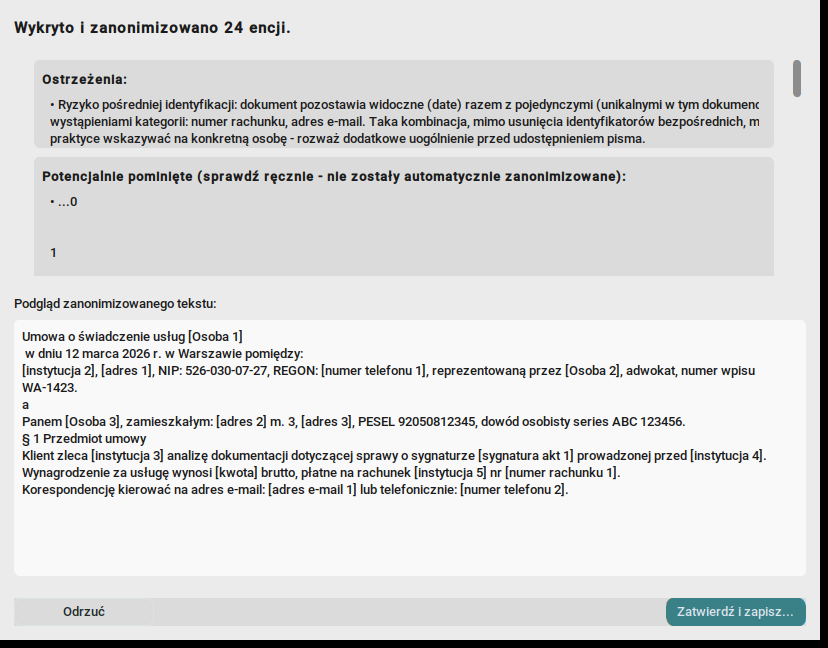
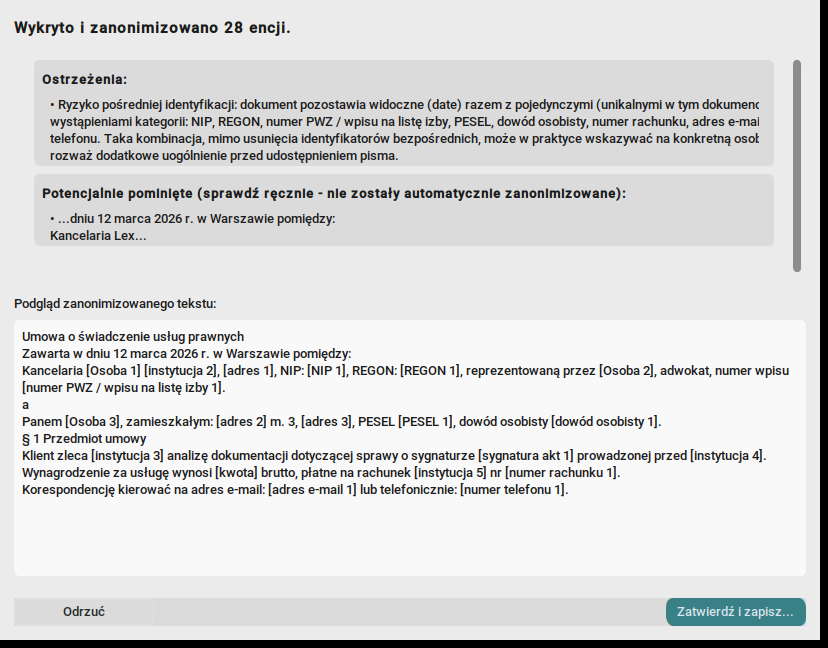
fix(detekcja): 5 napraw jakości detekcji + demo z walidnymi danymi
Znalezione po pytaniu o screenshot README (PESEL/dowód widoczne na zrzucie):
przyczyną był dokument demo z liczbami o błędnych sumach kontrolnych, które
walidacja celowo odrzuca - plus 4 realne bugi, które demo wytrąciło:

1. load_part_text: separator newline między blokami (w:p/w:tc/w:tr) w częściach
   przepływowych - koniec jednego akapitu nie skleja się z początkiem
   następnego w fałszywy token (było: prawnych+Zawarta -> fałszywa osoba).
2. phone: gołe 9 cyfr to telefon tylko z prefiksem komórkowym 5-8;
   trafienie po słowie-kluczu identyfikatora (REGON/NIP/PESEL...) nie jest
   telefonem (było: odrzucony REGON -> fałszywy numer telefonu).
3. npwz: nowy wzorzec numer wpisu WA-1423 - numery wpisów na listy izb
   zawodowych są publicznie wyszukiwalne i realnie identyfikują osobę.
4. missed-panel: początki akapitów po separatorze bloków przestają zalewać
   listę potencjalnie pominięte (martwy kod w _is_sentence_start);
   docProps skanowane bez kolektorów (Title / Microsoft Macintosh Word).
5. Screenshot review-window podmieniony - dokument demo z walidnymi
   checksumami, w pełni anonimizowany (PESEL, dowód, REGON, NIP, NRB,
   numer wpisu, e-mail, telefon).

282/282 testów przechodzi.

diff --git a/app/pipeline/docx_writer.py b/app/pipeline/docx_writer.py
@@ -53,6 +53,18 @@ _TECHNICAL_ATTR_LOCALNAMES = frozenset(
 # wartości (np. rewizja "1" + data ISO doklejona wprost do kolejnej daty ISO
 # złożyły się w ciąg cyfr wyglądający jak numer telefonu - realny błąd
 # znaleziony testem e2e). Dlatego te części łączymy z separatorem.
+#
+# ULICA vs AKAPIT/TABELA w części przepływowej: złączenie bez separatora jest
+# potrzebne TYLKO między węzłami wewnątrz jednego akapitu (rozbity PESEL na
+# dwa runy). Ale kolejne AKAPITY (w:p) i komórki tabel (w:tc) to logicznie
+# osobne bloki tekstu — sklejenie ich bez separatora zlewa ostatnie słowo
+# jednego akapitu z pierwszym następnego w jeden token CamelCase, który NER
+# potrafi fałszywie uznać za nazwisko (realny błąd na dokumencie demo:
+# "usług prawnych" + "Zawarta" -> "prawnychZawarta" -> [Osoba 1]). Dlatego
+# między blokami strukturalne wstawiamy separator "\n" (jak w częściach
+# nieprzepływowych), a bez separatora łączymy tylko węzły w obrębie tego
+# samego bloku. Separator żyje TYLKO w part.text do detekcji — nigdy nie
+# trafia do wynikowego dokumentu (apply_replacements operuje na węzłach).
 _FLOW_CONTENT_PART_PREFIXES = (
     "word/document.xml",
     "word/header",
@@ -60,6 +72,16 @@ _FLOW_CONTENT_PART_PREFIXES = (
     "word/footnotes.xml",
     "word/endnotes.xml",
     "word/comments.xml",
+)
+
+# Elementy XML, które KOŃCZĄ blok tekstu (akapit/komórka) w części
+# przepływowej - po nich wstawiamy separator między blokami.
+_FLOW_BLOCK_BOUNDARY_TAGS = frozenset(
+    {
+        f"{{{W_NS}}}p",   # akapit (w:p)
+        f"{{{W_NS}}}tc",  # komórka tabeli (w:tc)
+        f"{{{W_NS}}}tr",  # wiersz tabeli (w:tr)
+    }
 )
 
 
@@ -101,35 +123,60 @@ def _iter_text_locations(elem: etree._Element) -> Iterable[tuple[etree._Element,
             yield (child, "tail")
 
 
+def _block_ancestor(elem: etree._Element) -> etree._Element | None:
+    """Najbliższy przodek będący granicą bloku tekstu (w:p/w:tc/w:tr) —
+    None gdy węzeł nie leży w żadnym bloku (patrz `_FLOW_BLOCK_BOUNDARY_TAGS`)."""
+    for anc in elem.iterancestors():
+        if anc.tag in _FLOW_BLOCK_BOUNDARY_TAGS:
+            return anc
+    return None
+
+
 def load_part_text(part_name: str, xml_bytes: bytes) -> PartText:
     """Parsuje jedną część XML i buduje złączony tekst z mapą offsetów.
 
-    W częściach "przepływowych" (patrz `_FLOW_CONTENT_PART_PREFIXES`) fragmenty
-    są łączone bez separatora, żeby wartość rozbita na sąsiednie węzły (różne
-    formatowanie w jednym akapicie) dalej tworzyła jeden ciągły tekst do
-    detekcji. W pozostałych częściach (metadane, style, .rels...) wstawiamy
-    separator między fragmentami, żeby dwie niepowiązane wartości nigdy się
+    W częściach "przepływowych" (patrz `_FLOW_CONTENT_PART_PREFIXES`) węzły
+    W RAMIENI JEDNEGO AKAPITU/komórki łączone są bez separatora, żeby wartość
+    rozbita na sąsiednie węzły (różne formatowanie w jednym akapicie) dalej
+    tworzyła jeden ciągły tekst do detekcji. Ale między kolejnymi blokami
+    (akapity w:p, komórki tabel w:tc, wiersze w:tr) wstawiany jest separator
+    "\\n" — ostatnie słowo jednego akapitu i pierwsze słowo następnego nigdy
+    nie mogą się skleić w jeden token (realny błąd NER: "prawnych" + "Zawarta"
+    -> "prawnychZawarta" -> fałszywa [Osoba 1]).
+
+    W pozostałych częściach (metadane, style, .rels...) wstawiamy separator
+    między WSZYSTKIMI fragmentami, żeby dwie niepowiązane wartości nigdy się
     przypadkowo nie skleiły w fałszywe dopasowanie."""
     parser = etree.XMLParser(remove_blank_text=False)
     tree = etree.fromstring(xml_bytes, parser=parser).getroottree()
     root = tree.getroot()
     flow = _is_flow_content_part(part_name)
-    separator = "" if flow else "\n"
 
     nodes: list[TextNode] = []
-    pieces: list[str] = []
+    text_pieces: list[str] = []
     offset = 0
+    prev_block: etree._Element | None = None
     for elem, attr in _iter_text_locations(root):
         content = getattr(elem, attr) or ""
         if content == "":
             continue
-        if pieces:
-            offset += len(separator)
+        block = _block_ancestor(elem)
+        if text_pieces:
+            if not flow:
+                sep = "\n"
+            else:
+                # W części przepływowej: bez separatora tylko między węzłami
+                # wewnątrz TEJ SAMEGO bloku (rozbite runy jednego akapitu).
+                # Nieznany blok (None) też rozdziela — bezpieczniej.
+                sep = "" if (block is not None and block is prev_block) else "\n"
+            text_pieces.append(sep)
+            offset += len(sep)
+        prev_block = block
         nodes.append(TextNode(element=elem, start=offset, end=offset + len(content), attr=attr))
-        pieces.append(content)
+        text_pieces.append(content)
         offset += len(content)
 
-    return PartText(part_name=part_name, tree=tree, text=separator.join(pieces), nodes=nodes)
+    return PartText(part_name=part_name, tree=tree, text="".join(text_pieces), nodes=nodes)
 
 
 def apply_replacements(part: PartText, spans: list[tuple[int, int, str]]) -> bool:
@@ -234,6 +281,17 @@ def apply_attribute_replacements(
     (ta sama zamknięta funkcja `detect_fn`), więc numeracja etykiet
     pozostaje spójna z resztą dokumentu.
 
+    UWAGA na `attribute_detect_fn` vs `detect_fn` w `process_docx`: wartości
+    atrybutów to prawie wyłącznie identyfikatory techniczne XML (nazwy flag
+    ustawień typu `bestFit`, maski bitowe, wartości `docProps/app.xml` typu
+    `Microsoft Macintosh Word`). Nie podajemy tu funkcji z podpiętymi
+    kolektorami "potencjalnie pominięte"/"niepewne trafienia" ani z
+    `sample_texts` — te pochodzą wyłącznie z realnej treści dokumentu.
+    Podpięcie kolektorów pod atrybuty zalewało ekran weryfikacji fałszywymi
+    "pominiętymi" fragmentami czysto technicznych nazw (realny błąd na
+    dokumencie demo: `Title`, `bestFit`, `doNotCompress` w panelu
+    "potencjalnie pominięte").
+
     Uwaga bezpieczeństwa: w plikach `.rels` atrybut `Target` bywa
     WEWNĘTRZNĄ ścieżką do innej części pakietu (np. `docProps/thumbnail.jpeg`,
     `media/image1.png`) — musi zostać dosłownie nietknięty, inaczej podmiana
@@ -293,6 +351,8 @@ def process_docx(
     input_path: str | Path,
     output_path: str | Path,
     detect_fn: Callable[[str], list[tuple[int, int, str]]],
+    attribute_detect_fn: Callable[[str], list[tuple[int, int, str]]] | None = None,
+    metadata_detect_fn: Callable[[str], list[tuple[int, int, str]]] | None = None,
 ) -> list[str]:
     """Wczytuje .docx, uruchamia `detect_fn` na tekście każdej istotnej części
     pakietu, nakłada podmiany i zapisuje wynikowy plik, zachowując resztę
@@ -300,6 +360,20 @@ def process_docx(
 
     `detect_fn` przyjmuje złączony tekst części i zwraca listę
     (start, end, etykieta) do podmiany.
+
+    `attribute_detect_fn` (opcjonalny): funkcja użyta do skanowania WARTOŚCI
+    atrybutów XML zamiast `detect_fn` — podłącz pod niej wariant BEZ
+    kolektorów "potencjalnie pominięte"/"niepewne"/`sample_texts` (patrz
+    docstring `apply_attribute_replacements` po uzasadnienie). `None` = użyj
+    `detect_fn` (zachowanie historyczne, dla wywołań bez rozróżnienia).
+
+    `metadata_detect_fn` (opcjonalny): funkcja użyta do skanowania TEKSTU
+    części metadanych `docProps/*` zamiast `detect_fn` — ten sam wzorzec
+    co atrybuty: pełna detekcja i podmiany (dc:creator potrafi nieść
+    nazwisko autora pisma!), ale bez kolektorów. Techniczne wartości
+    metadanych (`Microsoft Macintosh Word`, `Normal.dotm`, puste `Title`)
+    to nie "treść dokumentu" — ich fragmenty NIE mogą zalewać panelu
+    "potencjalnie pominięte". `None` = użyj `detect_fn`.
 
     Zwraca listę nazw części, w których faktycznie coś podmieniono
     (do celów logowania bez treści — patrz higiena logów w planie).
@@ -327,11 +401,13 @@ def process_docx(
 
         part_changed = False
         if part.text:
-            spans = detect_fn(part.text)
+            text_fn = metadata_detect_fn if (name.startswith("docProps/") and metadata_detect_fn is not None) else detect_fn
+            spans = text_fn(part.text)
             if apply_replacements(part, spans):
                 part_changed = True
 
-        if apply_attribute_replacements(name, part.tree.getroot(), detect_fn):
+        attr_fn = attribute_detect_fn if attribute_detect_fn is not None else detect_fn
+        if apply_attribute_replacements(name, part.tree.getroot(), attr_fn):
             part_changed = True
 
         if part_changed:

diff --git a/app/main.py b/app/main.py
@@ -142,16 +142,18 @@ def _detect_fn_for(
     uncertain_detections: list[str] | None = None,
     gliner_model=None,
     gliner_threshold: float = 0.5,
+    collect_missed: bool = True,
+    collect_samples: bool = True,
 ) -> Callable[[str], list[tuple[int, int, str]]]:
     def _detect_fn(text: str) -> list[tuple[int, int, str]]:
-        if sample_texts is not None and text:
+        if collect_samples and sample_texts is not None and text:
             sample_texts.append(text)
         replacements: list[Replacement] = detect_in_text(
             text,
             registry,
             nlp=nlp,
-            potentially_missed_collector=potentially_missed,
-            uncertain_collector=uncertain_detections,
+            potentially_missed_collector=potentially_missed if collect_missed else None,
+            uncertain_collector=uncertain_detections if collect_missed else None,
             gliner_model=gliner_model,
             gliner_threshold=gliner_threshold,
         )
@@ -232,18 +234,52 @@ def process_to_staging(
         gliner_model=gliner_model,
         gliner_threshold=config.gliner.confidence_threshold,
     )
+    # Wariant "cichy" do skanowania WARTOŚCI atrybutów XML w .docx (patrz
+    # `docx_writer.apply_attribute_replacements`): te same detektory i ten
+    # sam rejestr tożsamości (spójna numeracja etykiet), ale BEZ kolektorów
+    # "potencjalnie pominięte"/"niepewne" i bez `sample_texts` — wartości
+    # atrybutów to niemal wyłącznie identyfikatory techniczne XML (bestFit,
+    # doNotCompress, Microsoft Macintosh Word...), a ich karmienie
+    # kolektorami zalewało ekran weryfikacji fałszywymi "pominiętymi"
+    # (realny błąd na dokumencie demo, 26.11.2026).
+    attribute_detect_fn = _detect_fn_for(
+        registry,
+        options.nlp,
+        sample_texts=None,
+        potentially_missed=None,
+        uncertain_detections=None,
+        gliner_model=gliner_model,
+        gliner_threshold=config.gliner.confidence_threshold,
+        collect_missed=False,
+        collect_samples=False,
+    )
+    # docProps/* (metadane): pełna detekcja i podmiany (dc:creator potrafi
+    # nieść nazwisko autora!), ale bez kolektorów — techniczne wartości
+    # metadanych (Microsoft Macintosh Word, Normal.dotm, Title) nie są treścią
+    # dokumentu i nie mogą zalewać panelu "potencjalnie pominięte".
+    metadata_detect_fn = _detect_fn_for(
+        registry,
+        options.nlp,
+        sample_texts=None,
+        potentially_missed=None,
+        uncertain_detections=None,
+        gliner_model=gliner_model,
+        gliner_threshold=config.gliner.confidence_threshold,
+        collect_missed=False,
+        collect_samples=False,
+    )
 
     staging_dir = Path(tempfile.mkdtemp(prefix=STAGING_DIR_PREFIX))
     try:
         tmp_output = staging_dir / "wynik.docx"
 
         if detection.format == DocumentFormat.DOCX:
-            docx_writer.process_docx(input_path, tmp_output, detect_fn)
+            docx_writer.process_docx(input_path, tmp_output, detect_fn, attribute_detect_fn, metadata_detect_fn)
 
         elif detection.format == DocumentFormat.DOC:
             converted = staging_dir / "przekonwertowany.docx"
             legacy_convert.convert_doc_to_docx(input_path, converted)
-            docx_writer.process_docx(converted, tmp_output, detect_fn)
+            docx_writer.process_docx(converted, tmp_output, detect_fn, attribute_detect_fn, metadata_detect_fn)
 
         elif detection.format == DocumentFormat.ODT:
             odt_output = staging_dir / "wynik.odt"

diff --git a/app/detectors/phone.py b/app/detectors/phone.py
@@ -1,15 +1,58 @@
 """Polskie numery telefonów: komórkowe (3-3-3, +48/0048) i stacjonarne
 (kod strefowy 2 cyfry + 3-2-2), z granicami `\b`-podobnymi (lookaround),
 żeby nie łapać fragmentu dłuższego ciągu cyfr (np. PESEL/NIP/REGON).
+
+Dodatkowe zabezpieczenia przed fałszywymi trafieniami na identyfikatorach
+(realny przypadek z umowy demo: REGON o błędnej sumie kontrolnej — 9 cyfr —
+łapany jako "[numer telefonu]"):
+
+- goła forma bez separatorów (9 cyfr z rzędu) jest telefonem tylko, gdy
+  zaczyna się od realnego prefiksu komórkowego (5-8xx) — identyfikatory
+  mogą zaczynać się dowolną cyfrą;
+- forma stacjonarna musi mieć nawias wokół kierunkowego albo separator
+  zaraz po nim — "221234567" z rzędu to prawie nigdy nie telefon;
+- trafienie poprzedzone w promieniu kilku znaków słowem-kluczem
+  identyfikatora (REGON, KRS, NIP, PESEL, NPWZ, "numer wpisu") NIE jest
+  telefonem — bo identyfikator odrzucony przez checksum (np. literówka w
+  REGON) ma identyczny "telefoniczny" kształt 9 cyfr.
 """
 
 from __future__ import annotations
 
-from app.detectors.base import Detector
+import re
 
-_MOBILE = r"(?:(?:\+48|0048)[\s-]?)?\d{3}[\s-]\d{3}[\s-]\d{3}|(?:\+48|0048)\d{9}|\d{9}"
-_LANDLINE = r"\(?\d{2}\)?[\s-]?\d{3}[\s-]?\d{2}[\s-]?\d{2}"
+from app.detectors.base import Detector, Match
+
+# Formy z separatorami/prefixem pozostają bez ograniczeń prefiksu (układ
+# 3-3-3 / +48 sam w sobie jest mocno "telefoniczny"); forma goła tylko z
+# prefiksem komórkowym 5-8.
+_MOBILE = (
+    r"(?:(?:\+48|0048)[\s-]?)?\d{3}[\s-]\d{3}[\s-]\d{3}"
+    r"|(?:\+48|0048)\d{9}"
+    r"|[5-8]\d{8}"
+)
+# Stacjonarny: nawias wokół kierunkowego (opcjonalny separator po nim)
+# LUB kierunkowy z separatorem — forma w pełni zlepiona nie jest telefonem.
+_LANDLINE = r"(?:\(\d{2}\)[\s-]?|\d{2}[\s-])\d{3}[\s-]?\d{2}[\s-]?\d{2}"
 
 _PATTERN = rf"(?<!\d)(?:{_MOBILE}|{_LANDLINE})(?!\d)"
 
-detector = Detector(name="phone", pattern=_PATTERN)
+# Słowa-klucze oznaczające, że następująca liczba to identyfikator, nie telefon.
+_IDENTIFIER_CONTEXT = re.compile(
+    r"(?i)\b(?:regon|krs|nip|pesel|npwz|numer\s+wpisu)\W{0,6}$"
+)
+
+
+class PhoneDetector(Detector):
+    """Detektor telefonu z kontekstowym filtrem identyfikatorów (opis wyżej)."""
+
+    def find_all(self, text: str) -> list[Match]:
+        matches = super().find_all(text)
+        return [
+            m
+            for m in matches
+            if not _IDENTIFIER_CONTEXT.search(text, 0, m.start)
+        ]
+
+
+detector = PhoneDetector(name="phone", pattern=_PATTERN)

diff --git a/app/pipeline/detect_all.py b/app/pipeline/detect_all.py
@@ -88,17 +88,31 @@ _COMMON_CAPITALIZED_WORDS = frozenset(
         "rejonowy", "rejonowego", "rejonowym",
         "okręgowy", "okręgowego", "okręgowym",
         "apelacyjny", "apelacyjnego", "apelacyjnym",
+        # Typowe słowa z nagłówków paragrafów umów/pism (§ 1 Przedmiot umowy,
+        # § 2 Wynagrodzenie) — nie są danymi, a ich "wielka litera w środku
+        # bloku" to artefakt stylu nagłówka, nie sygnał pominiętej osoby.
+        "przedmiot", "przedmiotu", "przedmiotem",
+        "wynagrodzenie", "wynagrodzenia",
+        "postanowienia", "postanowień",
+        "załącznik", "załącznika", "załączniku",
+        "umowa", "umowy", "umowie", "umowę", "umową", "umowy.",
     }
 )
 
 
 def _is_sentence_start(text: str, pos: int) -> bool:
     i = pos - 1
-    while i >= 0 and text[i] in " \t\n\r":
+    # Zjadamy tylko POZIOME białe znaki (spacja/tab) — pionowe (\n, \r)
+    # zatrzymują skan, bo są same w sobie granicą bloku tekstu (akapit,
+    # komórka tabeli, osobna część XML). Wcześniejsza wersja zjadała też
+    # "\n\r" jako whitespace, więc warunek ".!?\n" poniżej nigdy nie widział
+    # newline — początek akapitu NIE był traktowany jako początek zdania i
+    # pierwsze słowa kolejnych bloków zalewały listę "potencjalnie pominięte".
+    while i >= 0 and text[i] in " \t":
         i -= 1
     if i < 0:
         return True
-    return text[i] in ".!?\n"
+    return text[i] in ".!?\n\r"
 
 
 def find_potentially_missed(text: str, resolved: list[Detection]) -> list[str]:

diff --git a/app/detectors/npwz.py b/app/detectors/npwz.py
@@ -3,6 +3,12 @@
 Detektor kontekstowy (jak KRS): wymaga słowa "NPWZ" lub frazy
 "prawo wykonywania zawodu" w bezpośrednim sąsiedztwie numeru, bo sam
 7-cyfrowy ciąg nie ma żadnego checksumu i byłby zbyt niespecyficzny.
+
+Dodatkowo łapie numery wpisu na listę izb zawodowych z prefiksem
+województwa (np. "numer wpisu WA-1423" - Warszawa, adwokaci/radcowie):
+"WA", "WR", "GD" itd. bez checksumu są publicznie wyszukiwalne w
+rejestrach izb, więc realnie identyfikują osobę i MUSZĄ zostać
+zanonimizowane. Format: 2 litery, myślnik, 4-6 cyfr.
 """
 
 from __future__ import annotations
@@ -16,4 +22,25 @@ _PATTERN = re.compile(
     re.IGNORECASE,
 )
 
-detector = Detector(name="npwz", pattern=_PATTERN)
+# Numer wpisu na listę izby zawodowej: prefiks województwa + myślnik + cyfry,
+# poprzedzony frazą "numer wpisu" (bez kontekstu dwie litery + cyfry to
+# zbyt często np. numery rejestracyjne/skróty w tekście).
+_ENTRY_NUMBER_PATTERN = re.compile(
+    r"numer\s+wpisu\W{0,10}(?P<value>[A-Z]{2}-\d{4,6})\b",
+    re.IGNORECASE,
+)
+
+
+class _NpwzDetector(Detector):
+    """Detektor NPWZ + numerów wpisu na listę izb zawodowych."""
+
+    def find_all(self, text: str) -> list["Match"]:
+        from app.detectors.base import Match
+
+        results = super().find_all(text)
+        for m in _ENTRY_NUMBER_PATTERN.finditer(text):
+            results.append(Match(start=m.start("value"), end=m.end("value"), value=m.group("value")))
+        return results
+
+
+detector = _NpwzDetector(name="npwz", pattern=_PATTERN)

diff --git a/app/pipeline/identity_cluster.py b/app/pipeline/identity_cluster.py
@@ -39,7 +39,7 @@ CATEGORY_LABELS: dict[str, str] = {
     "passport": "paszport",
     "vehicle_vin": "VIN",
     "vehicle_plate": "numer rejestracyjny",
-    "npwz": "NPWZ",
+    "npwz": "numer PWZ / wpisu na listę izby",
     "case_number": "sygnatura akt",
     "notarial_act": "akt notarialny",
     "usc_act": "akt stanu cywilnego",
